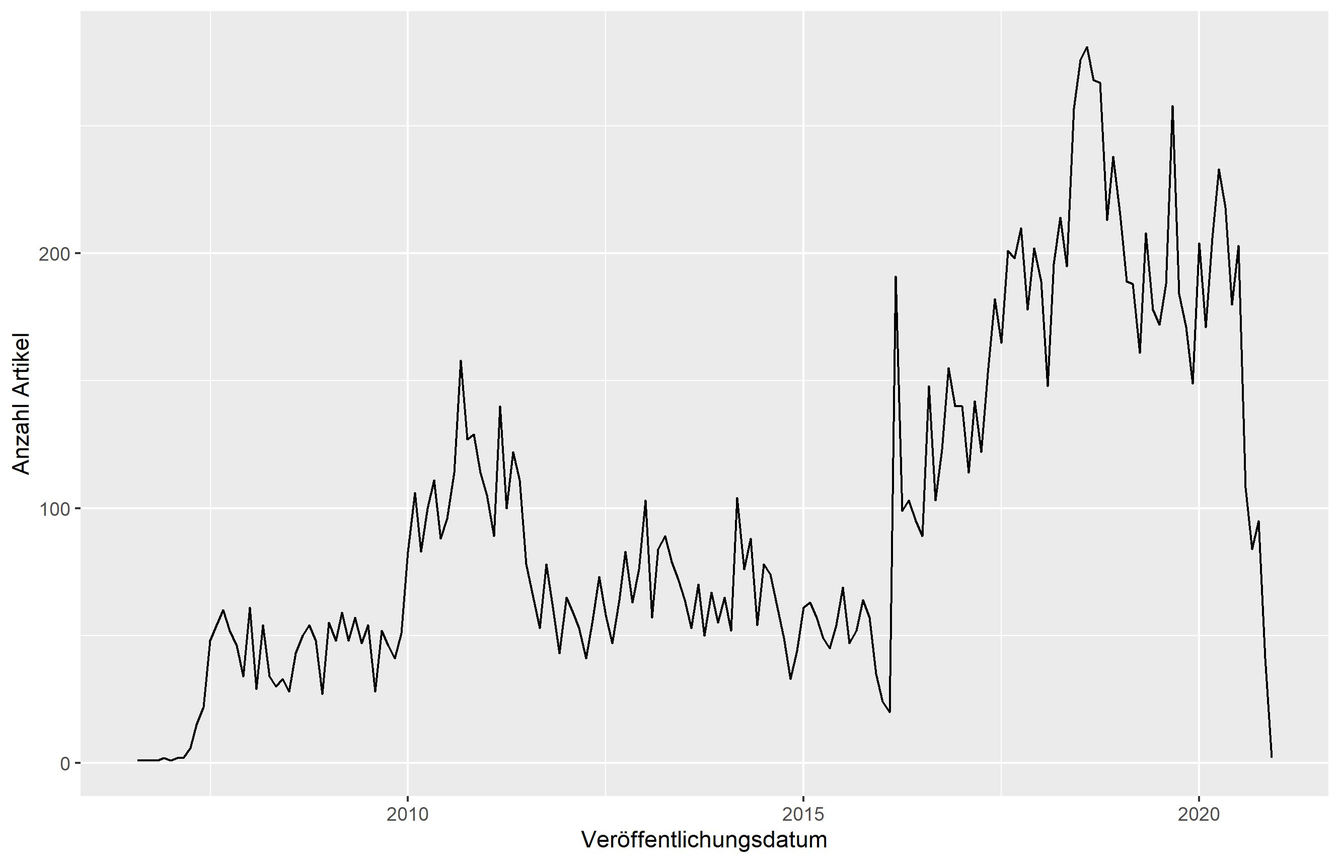
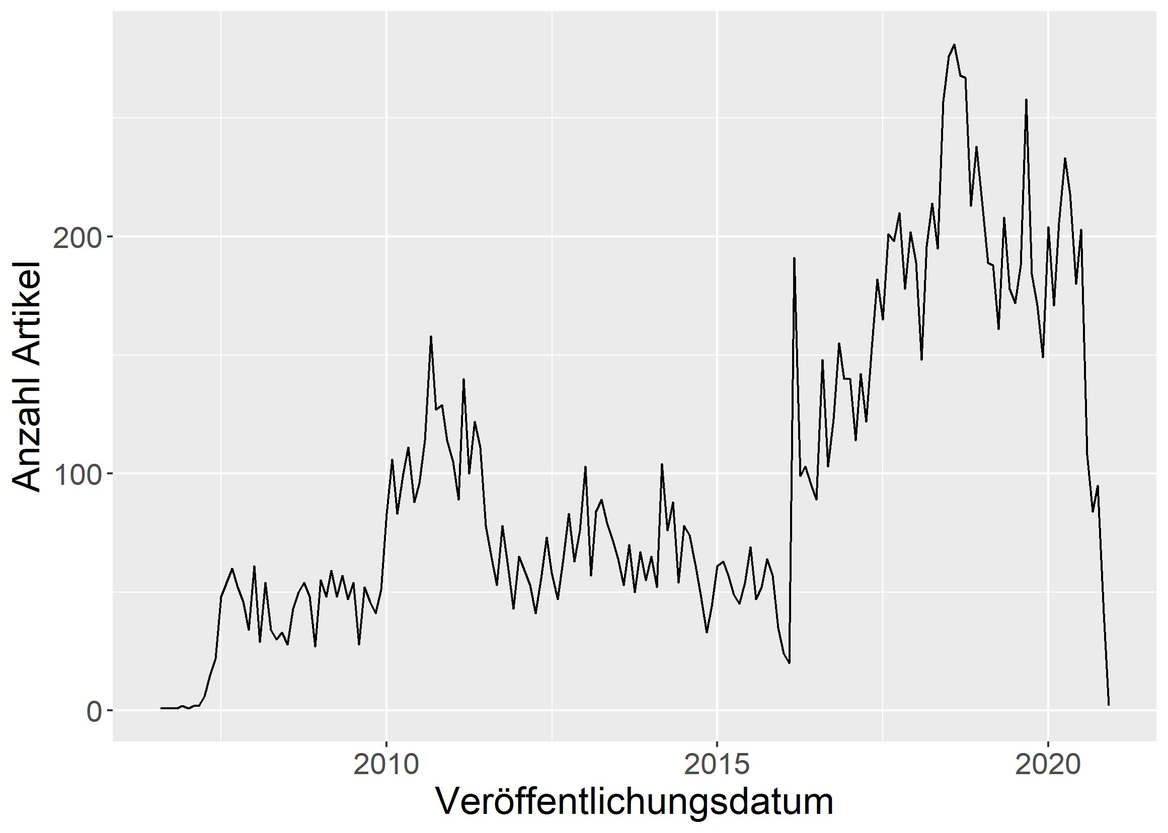
Finish umsetzung

diff --git a/report/content/umsetzung.tex b/report/content/umsetzung.tex
@@ -2,31 +2,35 @@
 
 \subsection{Datenbasis}
 
-Als Grundlage dieser Arbeit wurde ein Korpus aus Texten von insgesamt 7 deutschsprachigen, der verschwörungstheoretiker Szene zuzurechnenden Internetangeboten erstellt.
-Die Skripte zum automatischen Abruf der Texte nutzen das R-Paket \textit{rvest} \parencite{rvest} und extrahieren mittels für jede Seite separat erstellten CSS-Selektoren und XPATH-Queries den jeweiligen Artikeltext.
-Während dieses Prozesses wurden auch kleinere Bereinigungen an den Texten vorgenommen, um wiederkehrende, nicht zum Artikeltext gehörende Elemente wie Werbung oder Spendenaufrufe zu entfernen, die Texte selbst wurden jedoch soweit möglich nicht weiter bearbeitet.
+Als Grundlage dieser Arbeit wurde ein Textkorpus aus Artikeln von insgesamt sieben deutschsprachigen, der verschwörungstheoretischen Szene zuzurechnenden Internetangeboten erstellt.
+Die Skripte zum automatischen Abruf der Artikel nutzen das R-Paket \textit{rvest} \parencite{rvest} und extrahieren mittels für jede Seite separat erstellten CSS-Selektoren und XPath-Queries den jeweiligen Artikeltext.
+Während dieses Prozesses wurden auch kleinere Bereinigungen an den Artikeltexten vorgenommen, um wiederkehrende, nicht zum Artikeltext gehörende Elemente wie Werbung oder Spendenaufrufe zu entfernen.
+Die Texte selbst wurden jedoch soweit möglich nicht weiterbearbeitet.
 Weiterhin erfasst wurde zu jedem Artikel das (angegebene) Veröffentlichungsdatum, der Artikeltitel sowie die Rubrik auf der Website, so diese Angabe vorhanden war.
 
 \begin{figure}[h]
     \centering
     \includegraphics[scale=0.45]{graphics/cons_freq_time.jpg}
-    \caption{Anzahl Artikel nach Veröffentlichungsdatum (nach Monat gruppiert)}
+    \caption{Anzahl Artikel nach Veröffentlichungsmonat}
     \label{article-frequency}
 \end{figure}
 
-Der so erstellte Korpus umfasst insgesamt 16836 Texte und deckt beginnend in 2006 einen Zeitraum von 14 Jahren ab.
-Die zeitliche Verteilung der Artikel im Korpus ist Grafik \ref{article-frequency} zu entnehmen, wie dort ersichtlich ist steigt beginnend in 2016 die Zahl der Artikel deutlich an.
-Dies ist zum einen damit zu erklären, dass einzelne der gecrawlten Websites ihre Veröffentlichungsfrequenz zu dieser Zeit erhöht haben, überwiegend ist diese Entwicklung aber darauf zurückzuführen, dass insbesondere das Angebote von \textit{Watergate.tv} erst im Jahr 2016 seinen Betrieb aufgenommen hat und eine hohe Veröffentlichungsfrequenz aufweist. 
+
+Der so erstellte Korpus umfasst insgesamt 16836 Artikel und deckt beginnend im Jahr 2006 einen Zeitraum von 14 Jahren ab.
+Die zeitliche Verteilung der Artikel im Korpus ist Grafik \ref{article-frequency}
+zu entnehmen,\footnote{Alle Grafiken erstellt mit \textit{ggplot2} \parencite{ggplot2}.}.
+Wie dort ersichtlich ist, steigt beginnend in 2016 die Zahl der Artikel stark an.
+Dies ist zum einen damit zu erklären, dass einzelne der gecrawlten Websites ihre Veröffentlichungsfrequenz zu dieser Zeit erhöht haben, überwiegend ist diese Entwicklung aber darauf zurückzuführen, dass insbesondere das Angebote von \textit{Watergate.tv} erst im Jahr 2016 seinen Betrieb aufgenommen hat und eine hohe Veröffentlichungsfrequenz aufweist.
 Genauere Informationen zu den von den einzelnen Angeboten abgedeckten Zeiträumen sowie zu Artikelzahl und Länge finden sich in Tabelle \ref{corpus-stats}.
 
-Ebenso ist dort ersichtlich, dass sich nicht nur die absolute Zahl der Artikel nach Quelle stark unterscheidet, auch das Veröffentlichungsinterval schwankt je nach Quelle von weniger als einem Artikel/Monat zu über 100.
-Es besteht weiterhin ein negativer Zusammenhang zwischen der Artikellänge und dem Veröffentlichungsintervall ($r = -0.72, p = 0.065$).
+Dort ist auch ersichtlich, dass sich nicht nur die absolute Zahl der Artikel nach Quelle stark unterscheidet, auch das Veröffentlichungsintervall schwankt je nach Quelle von weniger als einem Artikel/Monat zu über 100.
+Es besteht weiterhin ein negativer Zusammenhang zwischen der durchschnittlichen Artikellänge und dem Veröffentlichungsintervall ($r = -0.72, p = 0.065$).
 
 \begin{table}
     \begin{center}
-        \begin{tabularx}{\textwidth}{l|XXXXX}
+        \begin{tabularx}{\textwidth}{lXXXXX}
             \toprule
-            & Von & Bis & Mittlere Zeichenzahl & Anzahl Artikel & Artikel/ Monat\\
+            Quelle & Von & Bis & Zeichen/ Artikel & Anzahl Artikel & Artikel/ Monat\\
             \midrule
             Alles Schall und Rauch & 23.08.06 & 02.08.20 & 5000 & 5349 & 32.0\\
             conrebbi & 05.09.12 & 20.10.14 & 5610 & 24 & 1.0\\
@@ -42,63 +46,64 @@ Es besteht weiterhin ein negativer Zusammenhang zwischen der Artikellänge und d
     \end{center}
 \end{table}
 
-Auch eine inhaltliche Betrachtung zeigt deutliche Unterschiede zwischen den einzelnen Quellen.
-So ist \textit{Alles Schall und Rauch} (\textit{ASuR}) als ältestes vertretenes Angebot auch einer der "klassischsten" Vertreter der Verschwörungswebsites.
-Hier werden die Besucher:innen direkt auf der Startseite mit Fragen konfrontiert wie \enquote*{Was geschau wirklich am 11. September?} oder \enquote*{Was passiert tatsächlich mit dem Klima?} \parencite{asur-homepage}.
-Hier lässt sich bereits die von \textcite[][205]{filatkina_2018} beobachtete Konstruktion des offenen Fragen finden, die die Aufmerksamkeit der Leser:innen auf sich ziehen soll.
 
-Die Seite bedient sich klassischer Verschwörungstheorien und wird im allgemeinen der Truther Szene zugeordnet \parencite{psiram-asur}.
-Sie hat laut Eigenaussage im Schnitt über 50.000 Zugriffe täglich.\footnote{Der Besucherzähler der Website ist inzwischen nicht mehr funktional, Angabe übernommen aus \textcite{vice-asur}}
+
+Auch eine inhaltliche Betrachtung zeigt deutliche Unterschiede zwischen den einzelnen Quellen.
+So ist \textit{Alles Schall und Rauch} (\textit{ASuR}) als ältestes vertretenes Angebot auch einer der klassischsten Vertreter der konspirativen Webangebote.
+Die Besucher:innen werden direkt auf der Startseite mit Fragen konfrontiert wie \enquote*{Was geschau wirklich am 11. September?} oder \enquote*{Was passiert tatsächlich mit dem Klima?} \parencite{asur-homepage}.\footnote{Hier ist bereits die von \textcite[][205]{filatkina_2018} beobachtete Konstruktion des offenen Fragen zu erkennen, die die Aufmerksamkeit der Besucher:innen auf sich ziehen soll.}
+
+Die Seite bedient sich klassischer Verschwörungstheorien und wird im Allgemeinen der Truther Szene zugeordnet \parencite{psiram-asur}.
+Sie hat laut Eigenaussage im Schnitt über 50.000 Zugriffe täglich.\footnote{Der Besucherzähler der Website ist inzwischen nicht mehr funktional, Angabe übernommen aus \textcite{vice-asur}.}
 
 Inhaltlich finden sich sowohl Essay-artige Artikel zu Themen wie 9/11, den Bilderberger-Treffen oder dem Klimawandel auf der Seite, aber auch kürzer gehaltene Meldungen zu aktuellen Ereignissen.
-Es werden, wie bei fast allen anderen Seiten im Korpus, häufig Inhalte Dritter eingebunden sowie die Artikel durch Bilder oder Grafiken ergänzt.
-Hier lässt sich Bereits die von \textcite{soukup_2008} beobachtete Multimedialität von Verschwörungstheorien beobachten.
+Es werden, wie bei fast allen anderen Seiten im Korpus, häufig Inhalte Dritter eingebunden, sowie die Artikel durch Bilder oder Grafiken ergänzt.
+Gut ist die von \textcite{soukup_2008} beobachtete Multimedialität von Verschwörungstheorien zu erkennen.
 
-Ähnlich zu \textit{ASuR} gelagert sind auch die Websites \textit{Hinter der Fichte} (\textit{HdF}) und \textit{conrebbi}, beide können der Truther Szene zugerechnet werden \cite[siehe etwa][]{psiram-conrebbi}.
+Ähnlich zu \textit{ASuR} gelagert sind auch die Websites \textit{Hinter der Fichte} (\textit{HdF}) und \textit{conrebbi}, beide können der Truther Szene zugerechnet werden \parencite[vgl.][]{psiram-conrebbi}.
 In beiden Angeboten werden aktuelle Ereignisse kommentiert und verschwörungstheoretisch interpretiert, aber auch längere Essays zu typischen Themen der Szene verfasst.
-Im Vergleich zu \textit{ASuR} werden bei beiden Angeboten deutlich mehr Inhalte in Form von Videos und Fremdquellen in Bild und Textform genutzt.
+Im Vergleich zu \textit{ASuR} werden bei beiden Angeboten deutlich mehr Inhalte in Form von Videos und Fremdquellen in Bild- und Textform genutzt.
 
-Von den bisherigen Quellen abheben tun sich dagegen die Angebote \textit{fm-tv} sowie \textit{Deutschlandpranger}.
-Während sich beim \textit{Deutschlandpranger} etwa inhaltlich recht klassische Themen wie die Leugnung des Klimawandels \parencite*[vgl.][]{dprang-klima} finden, sind die dazugehörigen Text überdurchschnittlich lang und voller Werbung für Bücher zu z.T. komplett unabhängigen Themen.
-Insbesondere aber sind die Texte selbst z.T. sehr wirr, die (sehr ausführlichen) AGB der Website enthalten etwa einen Abschnitt zu Strafzahlungen bei "Übersenden eines Statements anstatt einer echten Rechnung (True Bill) des wahren Haftungsgläubigers" \parencite*{dprang-agb} und weitere ähnlich obskure Paragraphen .
+Von den bisherigen Quellen heben sich dagegen die Angebote \textit{fm-tv} und \textit{Deutschlandpranger} ab.
+Während sich inhaltlich beim \textit{Deutschlandpranger} recht klassische Themen wie die Leugnung des Klimawandels \parencite*[vgl.][]{dprang-klima} finden, sind die dazugehörigen Texte überdurchschnittlich lang und voller Werbung für Bücher zu teilweise komplett unabhängigen Themen.
+Insbesondere aber sind die Texte selbst z.T. sehr wirr, die (sehr ausführlichen) AGB der Website enthalten etwa einen Abschnitt zu Strafzahlungen bei "Übersenden eines Statements anstatt einer echten Rechnung (True Bill) des wahren Haftungsgläubigers" \parencite{dprang-agb} und weitere ähnlich obskure Paragrafen.
 
-Die verbleibenden beiden Quellen im Korpus \textit{recentr} und \textit{Watergate.tv} sind beide der rechten truther Szene zuzuordnen und verbreiten Verschwörungstheorien in diese Richtung.
+Die verbleibenden beiden Quellen im Korpus \textit{recentr} und \textit{Watergate.tv} sind beide der rechten Truther Szene zuzuordnen und verbreiten Verschwörungstheorien in diese Richtung.
 Beide zeichnet ein eher journalistischer Stil aus, es werden kurze bis mittellange Meldungen veröffentlicht, häufig begleitet von eigenen oder fremden Videos.
 \textit{Recentr} wurde 2006 als deutscher Ableger von \textit{Inforwars.com} gegründet und bedient sich noch heute einem ähnlichen Konzept.
-Ähnlich dem Vorbild wird massiv Werbung für den eigenen Shop gemacht in dem diverse Produkte zur Vorbereitung auf apokalyptische Szenarien sowie fragwürdige Nahrungsergänzungsmittel verkauft werden.
-Inhaltlich sticht vor allem heraus, dass sich die Seite (bzw. der Hauptautor Alexander Benesch) z.T. sehr explizit von anderen Teilen der rechten/verschwörungstheoretischen Szene abgrenzt.
-\footnote{So grenzt sich das Portal in Beiträgen inzwischen auch von \textit{Inforwars} Gründer Alex Jones ab \parencite*{recentr-jones} oder spekuliert darüber, ob die Alternative für Deutschland vom britischen Geheimdienst gegründet wurde \parencite{recentr-afd}}
-So kommt es durchaus vor, dass in einem Artikel zunächst von der "implausiblen Sichtweise, verschiedenste Regierungen hätten eine Fake-Pandemie orchestriert" \parencite{recentr-population} gesprochen wird, nur um im nächsten Satz zu erklären: 
+Es wird massiv Werbung für den eigenen Shop gemacht, in dem diverse Produkte zur Vorbereitung auf apokalyptische Szenarien sowie fragwürdige Nahrungsergänzungsmittel verkauft werden.
+Inhaltlich sticht vor allem heraus, dass sich die Seite (bzw. der Hauptautor Alexander Benesch) z.T. sehr explizit von anderen Teilen der rechten bzw. der verschwörungstheoretischen Szene abgrenzt.
+\footnote{So grenzt sich das Portal in Beiträgen inzwischen auch von \textit{Inforwars} Gründer Alex Jones ab \parencite{recentr-jones} oder spekuliert darüber, ob die Alternative für Deutschland vom britischen Geheimdienst gegründet wurde \parencite{recentr-afd}.}
+So kommt es durchaus vor, dass in einem Artikel zunächst von der \enquote{implausiblen Sichtweise, verschiedenste Regierungen hätten eine Fake-Pandemie orchestriert} \parencite{recentr-population} gesprochen wird, nur um im nächsten Satz zu erklären: 
 
 \begin{quotation}
     In Wirklichkeit sind die Methoden der globalen Bevölkerungsreduktion fast ausschließlich legal, simpel und werden schrittweise angewandt [...]. Das Konzept ist so entworfen, um mit möglichst wenig Zwang auszukommen [...]. \parencite{recentr-population}
 \end{quotation} 
 
-Die Website \textit{Watergate.tv} (inzwischen Teil von \textit{NEOPresse.com}) ist ein Nachrichten und Videoportal, das sich verschwörungstheoretischer Narrative bedient. 
+Die Website \textit{Watergate.tv} (inzwischen Teil von \textit{NEOPresse.com}) ist ein Video- und Nachrichtenportal, das sich verschwörungstheoretischer Narrative bedient. 
 Auf dem Portal finden sich klassische Themen wie Bilderberger-Treffen \parencite[vgl.][]{watergate-bilderberger} aber auch Fake-News und Berichterstattung mit starker pro-russischen Tendenz.
-In die öffentlichkeit rückte das Portal als sich das Neo-Magazin-Royale wegen seiner Mitarbeit bei \textit{Watergate.tv} von Hans Meiser trennte \parencite*[Siehe z.B.][]{spiegel-watergate}.
+In die Öffentlichkeit rückte das Portal, als sich das Neo-Magazin-Royale wegen seiner Mitarbeit bei \textit{Watergate.tv} von Hans Meiser trennte \parencite[vgl.][]{spiegel-watergate}.
 
-Insgesamt deckt der hier verwendete Korpus einen signifikaten Teil der eher klassischen deutschsprachigen Truther Szene ab.
-Es muss allerdings angemerkt werden, dass insbesondere in den letzten Jahren eine Bewegung in der Szene Richtung Social Media zu Portalen wie Facebook und Telegram stattfand.\todo{Eventuell noch ne Zitation reinwamsen.}
-Diese zu Untersuchen ist allerdings nicht Teil der Fragestellung dieser Arbeit.
+Insgesamt deckt der hier verwendete Korpus einen signifikaten Teil der eher klassischen, deutschsprachigen Truther Szene ab.
+Es muss allerdings angemerkt werden, dass insbesondere in den letzten Jahren eine Bewegung der Szene in Richtung Social Media zu Portalen wie Facebook und Telegram stattfand.
+Diese zu untersuchen ist allerdings nicht Teil der Fragestellung dieser Arbeit.
 
-\subsection{Vergleichskorpus}
+\bigskip
 
-Um einen möglichst guten Vergleich zwischen den Texten im Korpus und dem Vergleichskorpus zu ermöglichen war es das Ziel Medien zu finden die in Form und inhaltlicher Ausrichtung dem Korpus möglichst ähnlich sind, ohne aber deren verschwörungstheretische Aspekte zu teilen.
-Da insbesondere die letzten beiden besprochenen Angebote sich inhaltlich sehr an journalisitsche Angebote anlehnen, lag es nah ebensolche heranzuziehen.
-Aus Gründen der Vollständigkeit (die Angebote sollten möglichst den kompletten Zeitraum des Korpus abdecken) sowie der Zugänglichkeit wurden die Angebote von \textit{Spiegel Online} sowie der \textit{Frankfurter Rundschau} ausgewählt.
-Es wurde für beide Onlineangebote zunächst ein Index aller Artikel die in den selben Zeitraum wie der Korpus fallen erstellt und aus diesem zufällig eine Auswahl von 10000 Artikeln pro Anbieter gezogen.
+Um einen möglichst guten Vergleich zwischen den Texten im Korpus und dem Vergleichskorpus zu ermöglichen, war es das Ziel Medien zu finden die in Form und inhaltlicher Ausrichtung dem Korpus möglichst ähnlich sind, ohne aber dessen verschwörungstheoretische Aspekte zu teilen.
+Da insbesondere die letzten beiden besprochenen Angebote sich inhaltlich sehr an journalistische  Medien anlehnen, lag es nah ebensolche heranzuziehen.
+Aus Gründen der Vollständigkeit (die Angebote sollten möglichst während des kompletten vom Korpus abgedeckten Zeitraums publiziert haben) sowie der Zugänglichkeit, wurden die Angebote von \textit{Spiegel Online} sowie der \textit{Frankfurter Rundschau} ausgewählt.
+Es wurde für beide Onlineangebote zunächst ein Index aller Artikel, die in dem vom Korpus abgedeckten Zeitraum veröffentlicht wurden, erstellt und aus diesem zufällig eine Auswahl von 10000 Artikeln pro Anbieter gezogen.
 
 Da die restlichen im Korpus enthaltenen Seiten alle mehr oder weniger in der Form eines Blogs gestaltet sind, sollten Angebote vergleichbarer Form herangezogen werden.
-Um auch dem in der Literatur häufig genannten wissenschaftlichen Stil von verschwörungstheoretischen Texten Rechnung zu tragen wurde eine Reihe von Wissenschaftsblogs als zweite Komponente im Vergleichskorpus gewählt.
-Dafür wurden von den beiden Platformen \textit{scienceblogs} und \textit{scilogs}\footnote{Beide Platformen sind Anbieter bei denen eine Vielzahl verschiedener Blogs zu finden sind.} ähnlich den journalistischen Angeboten aus dem gesamten Index der Einträge eine Auswahl von jeweils 10000 Artikeln ausgewählt.
-Genauere Kennwerte zum Vergleichskorpus sind Tabelle \ref{comcorpus-stats} zu entnehmen.
+Um auch dem in der Literatur häufig genannten wissenschaftlichen Stil von verschwörungstheoretischen Texten Rechnung zu tragen, wurde eine Reihe von Wissenschaftsblogs als zweite Komponente des Vergleichskorpus gewählt.
+Dafür wurden von den beiden Platformen \textit{scienceblogs} und \textit{scilogs},\footnote{Beide Platformen sind Anbieter bei denen eine Vielzahl verschiedener Blogs zu finden sind.} ähnlich den journalistischen Angeboten, aus dem gesamten Index der Einträge eine Auswahl von jeweils 10000 Artikeln ausgewählt.
+Genauere Kennwerte zum Vergleichskorpus sind Tabelle \ref{comcorpus-stats} zu entnehmen.\footnote{Die geringere Artikelzahl ist auf später durchgeführte Bereinigungen zurückzuführen.}
 
 \begin{table}
     \begin{center}
         \begin{tabularx}{\textwidth}{l|XXXXX}
             \toprule
-            & Von & Bis & Mittlere Zeichenzahl & Anzahl Artikel & Artikel/ Monat\\
+            & Von & Bis & Zeichen/ Artikel & Anzahl Artikel & Artikel/ Monat\\
             \midrule
             Frankfurter Rundschau & 03.08.06 & 04.08.20 & 3670 & 9959 & 59.3\\
             scienceblogs & 14.02.07 & 04.08.20 & 3261 & 8765 & 54.4\\
@@ -113,47 +118,48 @@ Genauere Kennwerte zum Vergleichskorpus sind Tabelle \ref{comcorpus-stats} zu en
 
 \subsection{Datenvorverarbeitung}
 
-Zunächst wurden einige Süberungsverfahren auf den Korpus angewendet, um zu verhindern, dass fehlerhafte oder irrelevante Daten mit für die Feature Erstellung herangezogen werden.
+Zunächst wurden einige Reinigungsverfahren auf den Korpus angewendet, um zu verhindern, dass fehlerhafte oder irrelevante Daten mit für die Featureerstellung herangezogen werden.
 
-Es wurde zunächst Unicode Normalisierung für alle Texte durchgeführt, anschließend wurde mittels des \textit{Google Compact Language Detector 3} \parencite[][]{cld3} die Sprache aller Text bestimmt und alle überwiegend Fremdsprachigen Artikel wurden aus dem Korpus entfernt.
+Es wurde Unicode Normalisierung für alle Texte durchgeführt, anschließend wurde mittels des \textit{Google Compact Language Detector 3} \parencite[][]{cld3} die Sprache aller Artikel bestimmt und alle als überwiegend fremdsprachig erkannten Artikel aus dem Korpus entfernt.\footnote{Alle Skripte zur Datenbereinigung und Modellerstellung sind verfügbar unter: \\ \href{https://github.com/davidfuhry/bachelor_thesis}{github.com/davidfuhry/bachelor\_thesis}.}
 Da im Korpus an einigen Stellen nicht zum Artikeltext gehörige Komponenten aus vielen Sonderzeichen vorhanden waren, wurden alle Wörter entfernt, die nur aus Zeichen bestanden, die unter 1000 Mal im gesamten Korpus vorhanden waren.
-Weiterhin wurden noch kleinere Korrekturen vorgenommen, wie das Zusammenfassen multipler, aufeinanderfolgender Leerzeichen und Unterstriche (die gerne als Trennlinien in den Text benutzt wurden).
+Weiterhin wurden noch kleinere Korrekturen vorgenommen, wie das Zusammenfassen multipler, aufeinanderfolgender Leerzeichen und Unterstriche (die gerne als Trennlinien in den Artikeln benutzt werden).
 
-Abschließend wurden noch alle Text unter 100 Zeichen Länge aus dem Korpus entfernt, da diese für die Klassifizierungsaufgabe nur wenig Informationen enthalten können. Der finale Korpus umfasste 53758 Texte, mit einem Anteil der positiven Klasse (sprich von verschwörungstheoretischen Texten) von etwa 32\%.
+Abschließend wurden noch alle Texte unter 100 Zeichen Länge aus dem Korpus entfernt, da diese nur wenig Informationen enthalten können. Der finale Korpus umfasste 53758 Texte, mit einem Anteil der positiven Klasse (sprich von verschwörungstheoretischen Texten) von etwa 32\%.
 
 \subsection{Features}
 
-Zunächst wurden Features basierend auf den in der Literatur beobachteten linguistischen Eigenschaften von verschwörungstheoretischen Texten erstellt.
-Die etwa von \textcite*[10]{miller_2002} festgestellte Emotionalität wird mit der Methode der Sentimentanalyse bearbeitet.
+Zunächst wurden Features basierend auf den in der Literatur beobachteten, linguistischen Eigenschaften von verschwörungstheoretischen Texten erstellt.
+Die etwa von \textcite*[10]{miller_2002} festgestellte Emotionalität wurde mit der Methode der Sentimentanalyse erfasst.
 Dafür wurde das Sentimentwörterbuch \textit{SentiWS} \parencite[][]{sentiws} genutzt.
 Dieses umfasst positive und negative Sentimentwerte für über 3000 Grundformen deutscher Wörter.
-Während komplexere Ansätze wie etwa der von \textcite[]{ml_sentiment} eine höhere Präzision versprechen,\footnote{So ist der hier vorgestellte Ansatz nicht in der Lage korrekt mit Negationen umzugehen.} scheint die genutzte Methode für den vorliegenden Kontext ausreichende Ergebnisse zu lieferen.
-Es wurde sowohl die Summe der positiven und negativen Sentimente erfasst, also auch die Summe sowie der Betrag nach Text insgesamt.
+Während komplexere Ansätze, wie etwa der von \textcite[]{ml_sentiment} eine höhere Präzision versprechen,\footnote{So ist der hier vorgestellte Ansatz beispielsweise nicht in der Lage korrekt mit Negationen umzugehen.} scheint die genutzte Methode für den vorliegenden Kontext ausreichende Ergebnisse zu lieferen.
+Es wurde sowohl die Summe der positiven und negativen Sentimente erfasst, also auch die Summe sowie der Betrag pro Artikel insgesamt.
 Hiermit soll insbesondere auf solche Fälle eingegangen werden, in denen ein Text zwar viele emotional behaftete Wörter verwendet, sich die Sentimentsumme aber durch einen Wechsel an positiven und negativen Wörtern ausgleicht.
 
 Als weiteres in der Literatur anzutreffendes Merkmal soll auch die Menge an Zitationen betrachtet werden.
-Um diese zu operationalisieren wurden zum einen die Anzahl der Anführungszeichen im Text gezählt.
-Eine genauere Betrachtung der Verwendung von Fremdbelegen von denen etwa \textcite[235]{schafer_2018} spricht, wird ermöglicht indem als zusäztliche Features erfasst werden:
+Um diese zu operationalisieren, wurden zum einen die Anzahl der Anführungszeichen im Text gezählt.
+Eine genauere Betrachtung der Verwendung von Fremdbelegen von denen etwa \textcite[235]{schafer_2018} spricht, wird ermöglicht indem als zusätzliche Features erfasst werden:
+
 \begin{enumerate}
-    \item Die Zahl der äußersten Zitate\footnote{Also Zitate die nicht Teil anderer Zitate sind}
+    \item Die Zahl der äußersten Zitate\footnote{Also Zitate die nicht Teil anderer Zitate sind.}
     \item Die durchschnittliche Länge der Zitate
     \item Der Anteil von zitiertem Text am gesamten Artikeltext
 \end{enumerate}
 
-Die Menge an \textit{scare quotes} wird ebenfalls erfasst, wobei ein \textit{scare quote} für diese Arbeit definiert wird als ein Zitat in dem keine Leerzeichen (oder andere Formen von whitespaces) enthalten sind.
+Die Menge an scare quotes wird ebenfalls erfasst, wobei ein scare quote für diese Arbeit definiert wird als ein Zitat, in dem keine Leerzeichen (oder andere Formen von whitespaces) enthalten sind.
 
-Die Menge der Fragen, wie sie etwa \textcite[205]{filatkina_2018} als Merkmal von verschwörungstheoretischen Texten feststellt, wird durch ein simples Zählen der im Text vorkommenen Fragezeichen abgebildet.
+Die Menge der Fragen, wie sie etwa \textcite[205]{filatkina_2018} als Merkmal von verschwörungstheoretischen Texten feststellt, wird durch ein simples Zählen der im Text vorkommenden Fragezeichen abgebildet.
 Ähnlich lässt sich auch die Annahme über die Häufung von Zahlenangaben wie sie sich bei \textcite[234]{schafer_2018} findet, durch einfaches Zählen von Zahlengruppen operationalisieren.
 Um die bei \textcite[149]{stumpf_2019} gemachte Beobachtung der häufigen Verwendung von Negationswörtern abzubilden, wurde händisch eine Liste von 15 Negationswörtern erstellt und deren Häufigkeit in den Texten gemessen.
 
-Die Multimedialität und Verknüpftheit von Verschwörungstheoretischen Online Texten wie sie \textcite[10]{soukup_2008} anspricht soll mit einer Reihe von Informationen die aus den dem Korpus zugrunde liegenden HTML Dateien extrahiert wurden abgebildet werden.
-Um die Multimedialität zu erfassen wurde die Anzahl der eingebundenen Bilder, Tweets, Youtube-Videos sowie sonstiger eingebetteter Elemente im Artikel gezählt.
+Die Multimedialität und Verknüpftheit von verschwörungstheoretischen Artikeln wie sie \textcite[10]{soukup_2008} anspricht, soll mit einer Reihe von Informationen die aus den dem Korpus zugrunde liegenden HTML Dateien extrahiert wurden abgebildet werden.
+Um die Multimedialität zu erfassen, wurde die Anzahl der eingebundenen Bilder, Tweets, Youtube-Videos sowie sonstiger eingebetteter Elemente im Artikel gezählt.
 Für eine Messung der Verknüpftheit wurde die Anzahl von in den Artikeln enthaltenen Links, aufgeteilt nach internen und externen Zielen, erfasst.
-Ebenso wurde als stilistisches Merkmal die Menge an fettgedruckten und kursiven Text erfasst.
+Ebenso wurde als stilistisches Merkmal die Menge an fettgedruckten und kursiven Text ausgewertet.
 
 \begin{table}
     \begin{center}
-        \begin{tabularx}{\textwidth}{l|XXXXXX}
+        \begin{tabularx}{\textwidth}{lXXXXXX}
             \toprule
             Feature & \multicolumn{2}{X}{Korpus} & \multicolumn{2}{X}{Vergleichskorpus} & W & p\\
             & $\overline{X}$ & $\sigma$ & $\overline{X}$ & $\sigma$ & & \\
@@ -173,17 +179,17 @@ Ebenso wurde als stilistisches Merkmal die Menge an fettgedruckten und kursiven 
     \end{center}
 \end{table}
 
-Um weitere Features aus dem Bereich der Textklassifikation zu nutzen, wurde der Corpus zunächst mithilfe von \textit{spaCy} \parencite[][]{spacy} annotiert um Lemmata und Part-of-Speech Tags zu generieren.
-Es wurden anschließend die Anzahl jedes Part-of-Speech Tags sowie der Anteil an großgeschriebenen Text und Sonderzeichen als Feature übernommen.
+Um weitere Features aus dem Bereich der Textklassifikation zu nutzen, wurde der Korpus zunächst mithilfe von \textit{spaCy} \parencite[][]{spacy} annotiert um Lemmata und Part-of-Speech Tags zu generieren.
+Es wurden anschließend die Anzahl jedes Part-of-Speech Tags, die Zahl der Sonderzeichen sowie der Anteil an großgeschriebenen Text als Feature übernommen.
 Ebenso wurde die Wortdichte für jeden Text bestimmt, also die Anzahl an Wörtern im Verhältnis zur Textlänge.
 
-Zur Ermittlung von Wortfrequenzen wurden zunächst Stopwörter aus dem Corpus entfernt\footnote{Zum Einsatz kam die Stopwort Liste aus dem \textit{tm} Paket \parencite[][]{r-tm}}, Wörter auf ihre Lemmata reduziert, einige Sonderfälle aussortiert\footnote{So wurde beispielsweise das Wort dpa nicht übernommen, da es praktisch exklusiv in Artikeln der Frankfurter Rundschau und von Spiegel Online vorkommt.} und anschließend die 400 häufigsten Wörter als Features übernommen.\footnote{Es ist durchaus üblich mehr Wörter als Features zu übernehmen \parencite*[siehe etwa][68]{feldman_sanger_2006}, da dies aber die Dimensionalität der Daten und damit die Komplexität der Klassifizierung deutlich erhöhen würde und die Auswahl von 400 Wörtern bereits zufriedenstellende Ergebnisse liefert wurde hier darauf verzichtet.}
+Zur Ermittlung von Wortfrequenzen wurden zunächst Stoppwörter aus dem Korpus entfernt\footnote{Zum Einsatz kam die Stoppwort Liste aus dem \textit{tm} Paket \parencite[][]{r-tm}}, Wörter auf ihre Lemmata reduziert, einige Sonderfälle aussortiert\footnote{So wurde beispielsweise das Wort dpa nicht übernommen, da es praktisch exklusiv in Artikeln der Frankfurter Rundschau und von Spiegel Online vorkommt.} und anschließend die 400 häufigsten Wörter als Features übernommen.\footnote{Es ist durchaus üblich mehr Wörter als Features zu übernehmen \parencite[vgl.][68]{feldman_sanger_2006}, da dies aber die Dimensionalität der Daten und damit die Komplexität der Klassifizierung deutlich erhöhen würde und die Auswahl von 400 Wörtern bereits zufriedenstellende Ergebnisse liefert wurde hier darauf verzichtet.}
 Alle Features abgesehen von den sowieso als \textit{tf-idf} oder als relative Häufigkeit vorliegenden wurden mit der Textlänge skaliert.
 
 \subsection{Modelerstellung}
 
-Zunächst wurde ein Datensatz erstellt der alle Beobachtungen, aber nur solche Features enthielt die aus der Literatur zu Verschwörungstheorien abgeleitet wurden.
-Auf diesem Datensatz wurde zunächst ein einfacher Entscheidungsbaum aus dem Paket \textit{rpart} \parencite[]{rpart} als Baseline Klassifizierer trainiert.
+Zunächst wurde ein Datensatz erstellt, der alle Beobachtungen, aber nur solche Features enthielt, die aus der Literatur zu Verschwörungstheorien abgeleitet wurden.
+Auf diesem Datensatz wurde zunächst ein einfacher Entscheidungsbaum aus dem Paket \textit{rpart} \parencite[]{rpart} als Baseline Modell trainiert.
 Hierfür wurde ein Train/Test Split im Verhältnis 2/1 auf den Daten durchgeführt.
 Das auf den Trainingsdaten trainierte Modell erreichte eine Präzision von 75.3\%.
 
@@ -195,7 +201,7 @@ Das auf den Trainingsdaten trainierte Modell erreichte eine Präzision von 75.3\
             Modell & Accuracy & Sensitivity & Specificity & AUC\\
             \midrule
             dtree & 0.7534 & 0.7761 & 0.7428 & 0.829445 \\
-            lightGBM & 0.8745 & 0.8700 & 0.8766 & .0.950817 \\
+            LightGBM & 0.8745 & 0.8700 & 0.8766 & .0.950817 \\
             \bottomrule
         \end{tabularx}
         \caption{Ergebnisse der Klassifizierer nur auf literaturbasierten Features}
@@ -204,23 +210,23 @@ Das auf den Trainingsdaten trainierte Modell erreichte eine Präzision von 75.3\
 \end{table}
 
 
-Mit dem gleichen Daten wurde anschließend ein Modell mit der \textit{LightGBM} Bibliothek\parencite[][]{lightgbm} trainiert.
-Da Gradienten-Boosting Verfahren schnell zu Overfitting neigen wurde dafür zunächst mittels Kreuzvalidierung auf den Trainingsdaten die optimale Iterationstiefe bestimmt.
-Anschließend wurde das Modell mit einer Lernrate von 0.1 und einer maximalen Blattzahl von 50 trainiert.
+Mit den gleichen Daten wurde anschließend ein Modell mit der \textit{LightGBM} Bibliothek \parencite[][]{lightgbm} trainiert.
+Da Gradienten-Boosting Verfahren schnell zu Overfitting neigen, wurde zunächst mittels Kreuzvalidierung auf den Trainingsdaten die optimale Iterationstiefe bestimmt.
+Anschließend wurde das Modell mit einer Lernrate von $0.1$ und einer maximalen Blattzahl von $50$ trainiert.
 Das so trainierte Modell erreichte eine Präzision von 87.4\%.
 
 In Tabelle \ref{small-model} sind die Leistungen der beiden Modelle auf den Testdaten zusammengefasst.
-Wie zu erkennen ist, ist selbst der einfache Entscheidungsbaum deutlich Präziser als es ein bloßes Raten im Klassenverhältnis wäre ($p < 0.01$).
-Auch ist ersichtlich, dass das komplexere \textit{LightGBM} Modell eine in allen Bereichen deutlich bessere Klassifizierungsleistung erbringt.
+Wie zu erkennen ist, ist selbst der einfache Entscheidungsbaum deutlich präziser als es ein bloßes Raten im Klassenverhältnis wäre ($p < 0.01$).
+Auch ist ersichtlich, dass das komplexere \textit{LightGBM} Modell eine in allen Bereichen deutlich bessere Leistung erbringt.
 
 \begin{table}
     \begin{center}
-        \begin{tabularx}{\textwidth}{X|XXXX}
+        \begin{tabularx}{\textwidth}{XXXXX}
             \toprule
             Modell & Accuracy & Sensitivity & Specificity & AUC\\
             \midrule
             dtree & 0.8668 & 0.7845 & 0.9052 & 0.881973 \\
-            lightGBM\footnotemark & 0.9784 & 0.9770 & 0.9791 & N/A \\
+            LightGBM\footnotemark & 0.9784 & 0.9770 & 0.9791 & N/A \\
             \bottomrule
         \end{tabularx}
         \caption{Ergebnisse der Klassifizierer auf dem vollständigen Datensatz}
@@ -228,11 +234,10 @@ Auch ist ersichtlich, dass das komplexere \textit{LightGBM} Modell eine in allen
     \end{center}
 \end{table}
 
-
-Im weiteren wurde ein Modell mit allen vorhandenen Features erstellt.
-Hierfür wurde ebenfalls zunächst ein Baseline Entscheidungsbaum trainiert.
-Dieser erreichte eine Präzision von 87.7\% und konnte damit den Entscheidungsbaum der auf dem kleineren Korpus trainiert wurde in Genauigkeit deutlich übertreffen.
-Interessant ist vor allem die verhältnismäßig geringe Sensitivität.
+Im Weiteren wurde ein Modell mit allen vorhandenen Features erstellt.
+Hierfür wurde ebenfalls zunächst als Baseline Entscheidungsbaum trainiert.
+Dieser erreichte eine Präzision von 87.7\% und konnte damit den Entscheidungsbaum, der auf dem kleineren Korpus trainiert wurde in Genauigkeit deutlich übertreffen.
+Hervorzuheben ist vor allem die verhältnismäßig geringe Sensitivität.
 
 \begin{figure}[ht]
     \centering
@@ -241,26 +246,12 @@ Interessant ist vor allem die verhältnismäßig geringe Sensitivität.
     \label{confusion-table}
 \end{figure}
 
-% \begin{table}
-%     \begin{center}
-%         \begin{tabularx}{\textwidth}{XX|XX}
-%             \cmidrule{3-4}
-%             & & \multicolumn{2}{X}{Referenz}\\
-%             & & 0 & 1 \\
-%             \hline
-%             \multirow{2}{*}{Vorhersage} & 0 & 33288 & 368 \\
-%             \cmidrule{2-4}
-%             & 1 & 634 & 16468 \\\midrule
-%         \end{tabularx}
-%         \caption{Confusion-Table des finalen Modells}
-%         \label{confusion-table}
-%     \end{center}
-% \end{table}
-
-Bevor das finale Modell trainiert wurde, wurde zunächst mittels eines Tunegrids eine optimierung der Hyperparameter der Lernrate sowie der Anzahl der äußersten Blätter durchgeführt.
-Getestete Werte waren dabei für die Lernrate 0.01, 0.05, 0.10, 0.20 und für die Blätterzahl 5, 50, 127 (Der Standardwert von lightGBM), 200.
+Bevor das finale Modell trainiert wurde, wurde zunächst mittels eines Tunegrids eine Optimierung der Hyperparameter Lernrate (\textit{learning\_rate}) und Anzahl der äußersten Blätter (\textit{n\_leaves}) durchgeführt.
+Getestete Werte waren dabei für die Lernrate 0.01, 0.05, 0.10, 0.20 und für die Blätterzahl 5, 50, 127 (Der Standardwert von \textit{LightGBM}), 200.
 Das beste Ergebnis wurde mit einer Lernrate von 0.05 und einer Blätterzahl von 50 erzielt.
 Mit diesen Werten wurde erneut die optimale Iterationstiefe mittels Kreuzvalidierung bestimmt.
-Das mit diesen Parametern erstellte, finale Modell wurde schließlich mittels einer 10-Fold Kreuzvalidierung validiert und erreichte insgesamt eine Präzision von 98.14\%.
+
+Das mit diesen Parametern erstellte, finale Modell wurde schließlich mittels einer 10-Fold Kreuzvalidierung auf den gesamten Datensatz validiert und erreichte insgesamt eine Präzision von 98.14\%.
+Die Confusion-Matrix der Kreuzvalidierung ist in Grafik \ref{confusion-table} zu sehen.
 
 \footnotetext{10-Fold Kreuzvalidiert}

diff --git a/report/Thesis.tex b/report/Thesis.tex
@@ -42,28 +42,38 @@
     \begin{center}
         \vspace*{1cm}
 
-        \textbf{Automatisierte Erkennung von verschwörungstheoretischen Artikeln}
+        \textbf{\Large Automatisierte Erkennung von verschwörungstheoretischen Artikeln}
 
         \vspace{0.5cm}
         Mit Methoden der natürlichen Sprachverarbeitung und des maschinellen Lernens
                 
         \vspace{1.5cm}
 
-        \textbf{David Fuhry}
 
         \vfill
                 
-        Arbeit zur Erlangung des akademischen Grades des\\
+        Bachelor-Arbeit zur Erlangung des akademischen Grades eines\\
         B.Sc. Digital Humanities
-                
+
         \vspace{3cm}
+                
+        Eingereicht von: David Fuhry
+        
+        \vspace{0.2cm}
+
+        Matrikel-Nr. 3704472\\
+        Zschochersche Str. 32\\
+        04229 Leipzig
+
+        \vspace{1cm}
 
         Betreuer: Jun.-Prof. Dr. Phil. Manuel Burghardt
         
-        \vspace{0.8cm}
+        \vspace{0.2cm}
                     
-        Universität Leipzig\\
+        Computational Humanities\\
         Institut für Informatik\\
+        Universität Leipzig\\
         Augustusplatz 10\\
         04109 Leipzig 
                 
@@ -101,6 +111,8 @@
 % Fazit
 
 \input{content/fazit}
+
+\clearpage
 
 %
 % ---- Bibliography ----
